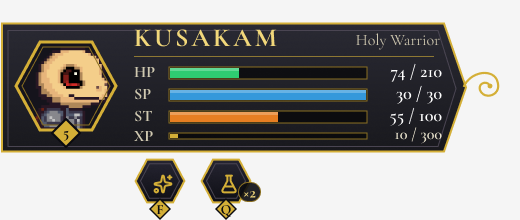
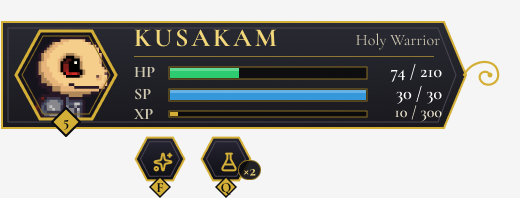
D551: no stamina for now (Sapega); hero panel v2 loses its ST row; stamina skill drafts swapped
Claude-Session: https://claude.ai/code/session_01A2gnDWaoeJGbj3GPH4dnCF

Changed region(s): [[0.0, 0.0909, 0.9846, 1.0]]

diff --git a/design/combat_hud_mapping.md b/design/combat_hud_mapping.md
@@ -92,13 +92,13 @@ production skills, targeting system, controller bindings.
 
 ## HUD v2 hero panel (D453, D476, D485): measured spec, 2026-10-23
 
-**Figma:** component `UI/HUD/HeroPanel v2` `501:6611`, 520 × 220 (the plate and, under it, the F and Q chips). In-game placement: frame `492:6543`, top left. Shot: `design/shots/figma_hero_panel_v2.png`. The stamina row was added on 2026-10-23 for D537, and the plate grew by 22 px. The 8-slot hotbar v2 (`497:6587`, D549) is specified below and built in the same routine.
+**Figma:** component `UI/HUD/HeroPanel v2` `501:6611`, 520 × 198 (the plate and, under it, the F and Q chips). In-game placement: frame `492:6543`, top left. Shot: `design/shots/figma_hero_panel_v2.png`. There is no stamina row: stamina is out for now (D551). The 8-slot hotbar v2 (`497:6587`, D549) is specified below and built in the same routine.
 
 **Assets:** all in `SampleProject/Assets/UI/HUD/hero_panel/`.
 
 | File | Size | What it is |
 |---|---|---|
-| `plate.svg` | 470 × 144 | Dark gradient plate with a gold rim and an arrow tip on the right |
+| `plate.svg` | 470 × 122 | Dark gradient plate with a gold rim and an arrow tip on the right |
 | `portrait_ring.svg` | 104 × 92 | Gold hexagon ring around the portrait |
 | `level_diamond.svg` | 30 × 30 | Gold level badge |
 | `curl.svg` | 44 × 44 | D476 ornament. On the panel's right end it is mirrored: `flip_h`, which is Figma's rotate 180 + flip Y |
@@ -108,26 +108,25 @@ production skills, targeting system, controller bindings.
 
 | Element | Position, size | Look |
 |---|---|---|
-| Plate | (0, 14) 470 × 144 | `plate.svg` |
-| Portrait | (14, 40) 104 × 92 | The hero portrait (`CharacterManager.HERO_PORTRAIT`, D534), nearest-filtered, clipped to the hexagon `M26 2H78L102 46L78 90H26L2 46Z` over a `#15141C` fill. `portrait_ring.svg` sits on top |
-| Level badge | (51, 118) 30 × 30 | `level_diamond.svg`. The level number is centred: Cormorant Bold 15, `#0B0B10` |
+| Plate | (0, 14) 470 × 122 | `plate.svg` |
+| Portrait | (14, 29) 104 × 92 | The hero portrait (`CharacterManager.HERO_PORTRAIT`, D534), nearest-filtered, clipped to the hexagon `M26 2H78L102 46L78 90H26L2 46Z` over a `#15141C` fill. `portrait_ring.svg` sits on top |
+| Level badge | (51, 107) 30 × 30 | `level_diamond.svg`. The level number is centred: Cormorant Bold 15, `#0B0B10` |
 | Name | (134, 22) | "KUSAKAM": Cormorant Bold 26, `#F1D77A`, uppercase, letter spacing 3 |
 | Class | right edge at x 440, top 30 | Cormorant Regular 16, `#CFC8B0`. The sworn oath's name; "Holy Warrior" before the oath (as Status, D532) |
 | Rule | (134, 56) 300 × 1 | Accent `#D4AF37` at 60 % |
 | HP row | label y 62, bar y 66, h 14 | Fill `#2ECC71` |
 | SP row | label y 84, bar y 88, h 14 | Fill `#3498DB` |
-| ST row | label y 106, bar y 110, h 14 | Fill `UITokens.STAMINA_FILL` (`#E67E22`) |
-| XP row | label y 126, bar y 132, h 8 | Fill accent `#D4AF37` |
-| Curl | (462, 64) 44 × 44 | `curl.svg`, `flip_h` |
-| F chip, the assist | (134, 158) 52 × 46 | `chip.svg` with the next or active companion's portrait, the D525 states (ready, active with the pulse, cooldown dimmed with the seconds) and the refused-press shake. Key badge (the hotbar's `key_badge.svg`) at (149, 198) with "F" |
-| Q chip, potions | (200, 158) 52 × 46 | `chip.svg` with the potion icon. The count sits in a pill at the chip's bottom right, (238, 182) 23 × 20: `#0B0B10` at 90 %, a 1 px `#8A6F22` border, radius 10, text Cormorant Bold 16 `#F1D77A`. Key badge at (215, 198) with "Q" |
+| XP row | label y 104, bar y 110, h 8 | Fill accent `#D4AF37` |
+| Curl | (462, 53) 44 × 44 | `curl.svg`, `flip_h` |
+| F chip, the assist | (134, 136) 52 × 46 | `chip.svg` with the next or active companion's portrait, the D525 states (ready, active with the pulse, cooldown dimmed with the seconds) and the refused-press shake. Key badge (the hotbar's `key_badge.svg`) at (149, 176) with "F" |
+| Q chip, potions | (200, 136) 52 × 46 | `chip.svg` with the potion icon. The count sits in a pill at the chip's bottom right, (238, 160) 23 × 20: `#0B0B10` at 90 %, a 1 px `#8A6F22` border, radius 10, text Cormorant Bold 16 `#F1D77A`. Key badge at (215, 176) with "Q" |
 
 **Rows:**
 - Each label is at x 134: Cormorant Bold 16, `#CFC8B0`.
 - Each bar is at x 168, 200 wide.
 - Each value is right-aligned to x 442: Cormorant SemiBold 18, white. The XP value is 16, `#E8E2CC`.
 - The bar background is black at 60 % with a 1 px `#8A6F22` border. The fill is inset 1 px.
-- HP, SP and ST have a 3 px top highlight of white at 25 %. XP has no highlight.
+- HP and SP have a 3 px top highlight of white at 25 %. XP has no highlight.
 - Colours go through `UITokens`: reuse the existing tokens, and add one only where none exists.
 
 **The potion and the assist live here** (Sapega, 2026-10-23: «QF прибери з панелі», meaning out of the hotbar). The old "Q Potions ×N" text line (D538) becomes the Q chip, and the assist slot leaves the hotbar for the F chip.

diff --git a/design/figma_decision_register.md b/design/figma_decision_register.md
@@ -705,3 +705,4 @@ The end screen is drawn in Figma first (#54's "demo end screen", Claude draws). 
 | D548 | GAP (`cloud/world-fixes`) | **The D446 sparkle.** `Assets/World/pickup_sparkle.svg`: four 11 × 11 pixel frames (a dot, a cross, a peak with a long 4-point cross, a fading ring) in ACCENT gold `#D4AF37`, warm white `#FFF8E0` and a dark gold. The scale is ×3 (two pixels of the hero's ×1.5). At ×1.5 it was too faint to notice in a full frame. The `glint` animation in the scene loops every 1.6 s and mostly rests on the dot. `ItemPickup.gd` no longer sets the item icon. An unknown `item_id` still disables the pickup. |
 | D549 | OVERRIDE | **The hotbar has 8 skill slots** (Sapega, 2026-10-23: «Панель з 8 скілів окей»; answers Q86). Keys 1–8. On the gamepad: two sets of four behind the left and right triggers (provisional). The Figma hotbar `497:6587` (4 hex slots, D453) is redrawn to 8 by Claude before it is built. With 10 actives a tab (D535), the hero still chooses which of them to put on the bar. The bar holds only the 8 skills: the potion (Q) and the assist (F) are chips under the hero panel (Sapega, the same day: «QF прибери з панелі»). |
 | D550 | OVERRIDE | **Every skill has a beautiful, recognisable icon** (Sapega, 2026-10-23: «іконки скілів мають бути, і вони мають бути дуже красивими; це можуть бути маленькі малюночки, але вони мають бути впізнаваними»). All 76 skills (D535) get an icon: a small painted picture in the game's style with one clear subject per skill (the spear, the hammer, the chain, the flask), readable at hotbar size, with the tree's colour as the accent (Holy Warrior gold, Paladin white-gold, Dark Knight crimson-violet, Warden sand-teal). Made in ComfyUI (D455). A candidate sheet of a few skills in two or three looks goes to Sapega first, then the full batch. Actives and passives share the look, and a passive gets a round frame (Dragon Nest / WoW convention: square active, round passive). |
+| D551 | OVERRIDE | **No stamina and no adrenaline, for now** (Sapega, 2026-10-23: «Адреналін або витривалість мені не нравиться… Давай поки без неї»). The stamina that `cloud/combat-player` built (D537, from D504) is removed. That means no ST bar, no stamina costs for swings, shots, rolls or blocks, and no stamina text in the tutorial. D264's "no stamina" stands again, as in Tails of Iron. Kept from D504 / D536–D540: attacks commit (no cancel mid-swing), the potion quick slot, no HP bars over ordinary enemies, and the faster combat tutorial. The hero panel v2 has no ST row (`501:6611`). The four v2 skill drafts that used stamina are swapped: Keen Edge, Shield of Faith (heals on a shield block), Centered Breath (HP and SP) and Light Feet (a longer roll). "For now" means it can come back only on Sapega's word. |
